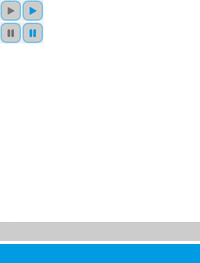
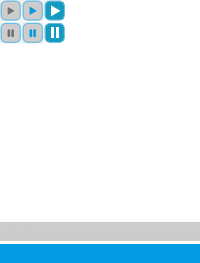
additional js

Changed region(s): [[0.21, 0.0, 0.33, 0.1825]]

diff --git a/static/javascript/audio.js b/static/javascript/audio.js
@@ -91,5 +91,23 @@ $(document).ready(function() {
       }).bind($.jPlayer.event.play, function() { 
       $(this).jPlayer("pauseOthers");
     });
-    
+
+
+    $("#jquery_jplayer_7").jPlayer({
+      ready: function () {
+        $(this).jPlayer("setMedia", {
+          mp3: "media/demo.mp3"
+        });
+      },
+      ended: function (event) {
+        $(this);
+      },
+      cssSelectorAncestor:"#jp_interface_7",
+      supplied: "mp3"
+      }).bind($.jPlayer.event.play, function() { 
+      $(this).jPlayer("pauseOthers");
+    });
+
+
+
 });

diff --git a/static/jplayer.blue.monday.css b/static/jplayer.blue.monday.css
@@ -105,16 +105,22 @@ div.jp-audio div.jp-type-playlist a.jp-pause {
 a.jp-play {
 	background: url("jplayer.buttons.png") 0 0 no-repeat;
 }
+
+
 a.jp-play:hover {
 	background: url("jplayer.buttons.png") -22px 0 no-repeat;
 }
+
+
 a.jp-pause {
 	background: url("jplayer.buttons.png") 0 -22px no-repeat;
 	display: none;
 }
+
 a.jp-pause:hover {
 	background: url("jplayer.buttons.png") -22px -22px no-repeat;
 }
+
 div.jp-audio div.jp-type-single a.jp-stop {
 	top:26px;
 	left:90px;

diff --git a/index.html b/index.html
@@ -15,6 +15,7 @@
    <a href="index.html"><img style="position: absolute; top: 0; left: 0; border: 0;" src="static/img/liz.png" alt="hello"></a>
    <div class="topbar">
       <div class="container"  style="margin-right:none;">
+
         <ul class="nav" style="float:right;">
             <li><a href="services.html">SERVICES</a></li>
             <li><a href="ivr.html">IVR</a></li>
